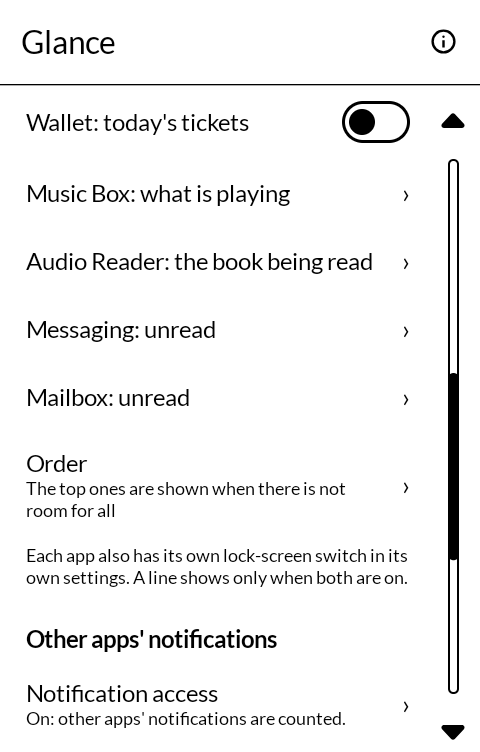
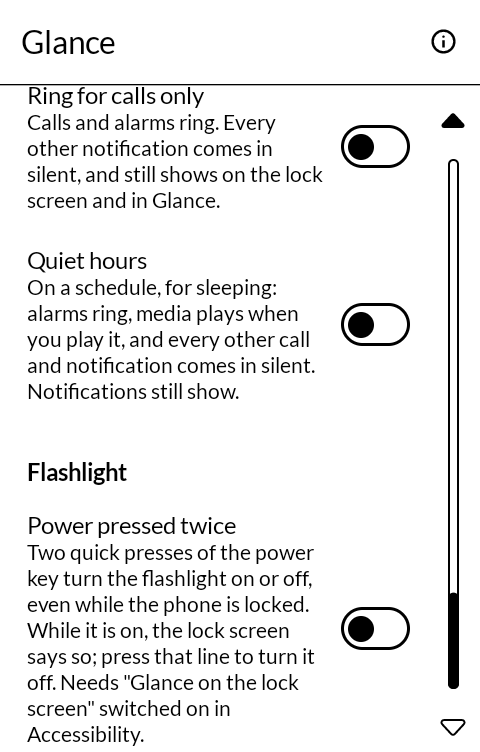
Settings screenshots retaken (Apps, Sound and Flashlight sections), alt texts to match

diff --git a/README.md b/README.md
@@ -11,7 +11,7 @@ phone's dark setting and Home's dark switch.
 
 | | |
 |---|---|
-| ![Glance: the switches for each part](screenshots/1-app.png) | ![The order, and the other apps' notifications](screenshots/2-more.png) |
+| ![Glance: what the lock screen shows](screenshots/1-app.png) | ![Sound, and the flashlight](screenshots/2-more.png) |
 | ![Preview](screenshots/3-preview.png) | ![About: Privacy](screenshots/4-about.png) |
 
 ## What it shows
